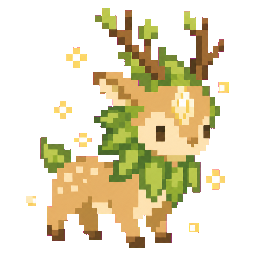
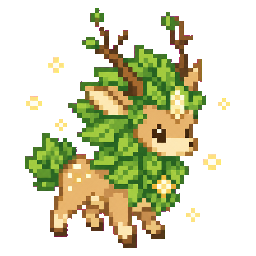
fix(arte): rookies escolhidos pelo dono — clareira e bênção feérica (API), alto forno (exceção)

diff --git a/docs/REGISTRO-DE-DECISOES.md b/docs/REGISTRO-DE-DECISOES.md
@@ -4492,3 +4492,9 @@ A Oficina de antes pagava no máximo 8 itens por dia: a renda de material dobra 
 **Decisão:** as três formas altas da Vileza/Poder (`novos/vileza-{ultimate,mega,ultra}.png`) são substituídas pelas versões aprovadas pelo dono (Ultimate `poder/ultimate.novo`, Mega `poder/mega.novo2` com 3 caudas de escorpião, Ultra `ultra.novo2`), todas geradas pela **API Higgsfield — regra: sprite só via API** (nada de ChatGPT para sprite). O Champion lobisomem não mudou. Pipeline: remoção de franja/pixels magenta e de ilhas <24 px, recorte da bounding box, redução proporcional para 256² (mesmo tamanho dos sprites atuais da linha), alfa binário. Fontes e metas (prompt/tags) em `E:\Soulmon-assets\vileza-v2\`; inventário: os três arquivos acima constam como "API Higgsfield" em `docs/INVENTARIO-ASSETS.md`.
 
 **Alternativa que perdeu:** manter as formas v2 sem a cauda tripla. **Falsifica:** o dono ver a Mega sem as 3 caudas ou franja magenta no Ultra em combate.
+
+## §273 — Rookies escolhidos pelo dono: clareira e bênção feérica (API), alto forno (exceção) (09/11/2026)
+
+**Decisão:** o dono escolheu em 09/11/2026: `262-clareira` e `264-bencao_feerica` = arte da API Higgsfield (v5a; a bênção teve a franja verde de chroma removida por despill, sem alterar o desenho); `263-alto_forno` = **EXCEÇÃO aprovada pelo dono** (arte pintada do ChatGPT, escolhida por ele; recorte com alfa real por rembg `isnet-general-use`, sem a fumaça, 256² RGBA LANCZOS). A regra "sprite só via API" (§271) segue valendo para todo o resto. Fontes e meta em `E:/Soulmon-assets/sprites-api-rookies-2026-11-09/`.
+
+**Alternativa que perdeu:** manter os v3/v4 da API também para o alto forno. **Falsifica:** o dono ver franja/halo em algum dos três em combate, ou a exceção virar precedente para outros sprites.

diff --git a/docs/INVENTARIO-ASSETS.md b/docs/INVENTARIO-ASSETS.md
@@ -434,3 +434,5 @@ Fonte: `E:\Soulmon-assets\beta3-geradas\chatgpt\` (ChatGPT, alfa real; reduzidos
 > **Atualização 09/11/2026 (Vileza/Poder):** `soulmon/novos/vileza-{ultimate,mega,ultra}.png` (256², alfa real binário) substituídos por versões geradas via **API Higgsfield (regra: sprite só via API)**; Mega com 3 caudas de escorpião; fontes em `E:\Soulmon-assets\vileza-v2\`. `vileza-champion` e `vileza-rookie` inalterados. Ver `REGISTRO-DE-DECISOES.md` §272.
 
 > **09/11/2026 (Ticket dos minijogos, REGISTRO §270):** `soulmon/hud/ticket-minigame.png` (512×308, alfa real) — ticket amarelo com controle de videogame, **ChatGPT, UI, aprovado pelo dono em 09/11/2026**. Original 1586×992 e prompt/tags em `E:/Soulmon-assets/gerar-chatgpt/ui-2026-11-09/ticket-amarelo-controle.{png,meta.json}`. Usado em `components/play/TicketFan.tsx`.
+
+> **Atualização 09/11/2026 (rookies escolhidos):** `novos-arquivo/combinados/262-clareira.png` e `264-bencao_feerica.png` = API Higgsfield (v5a; bênção sem franja verde); `263-alto_forno.png` = EXCEÇÃO aprovada pelo dono (pintura do ChatGPT, recorte rembg, sem fumaça). Ver `REGISTRO-DE-DECISOES.md` §273.
